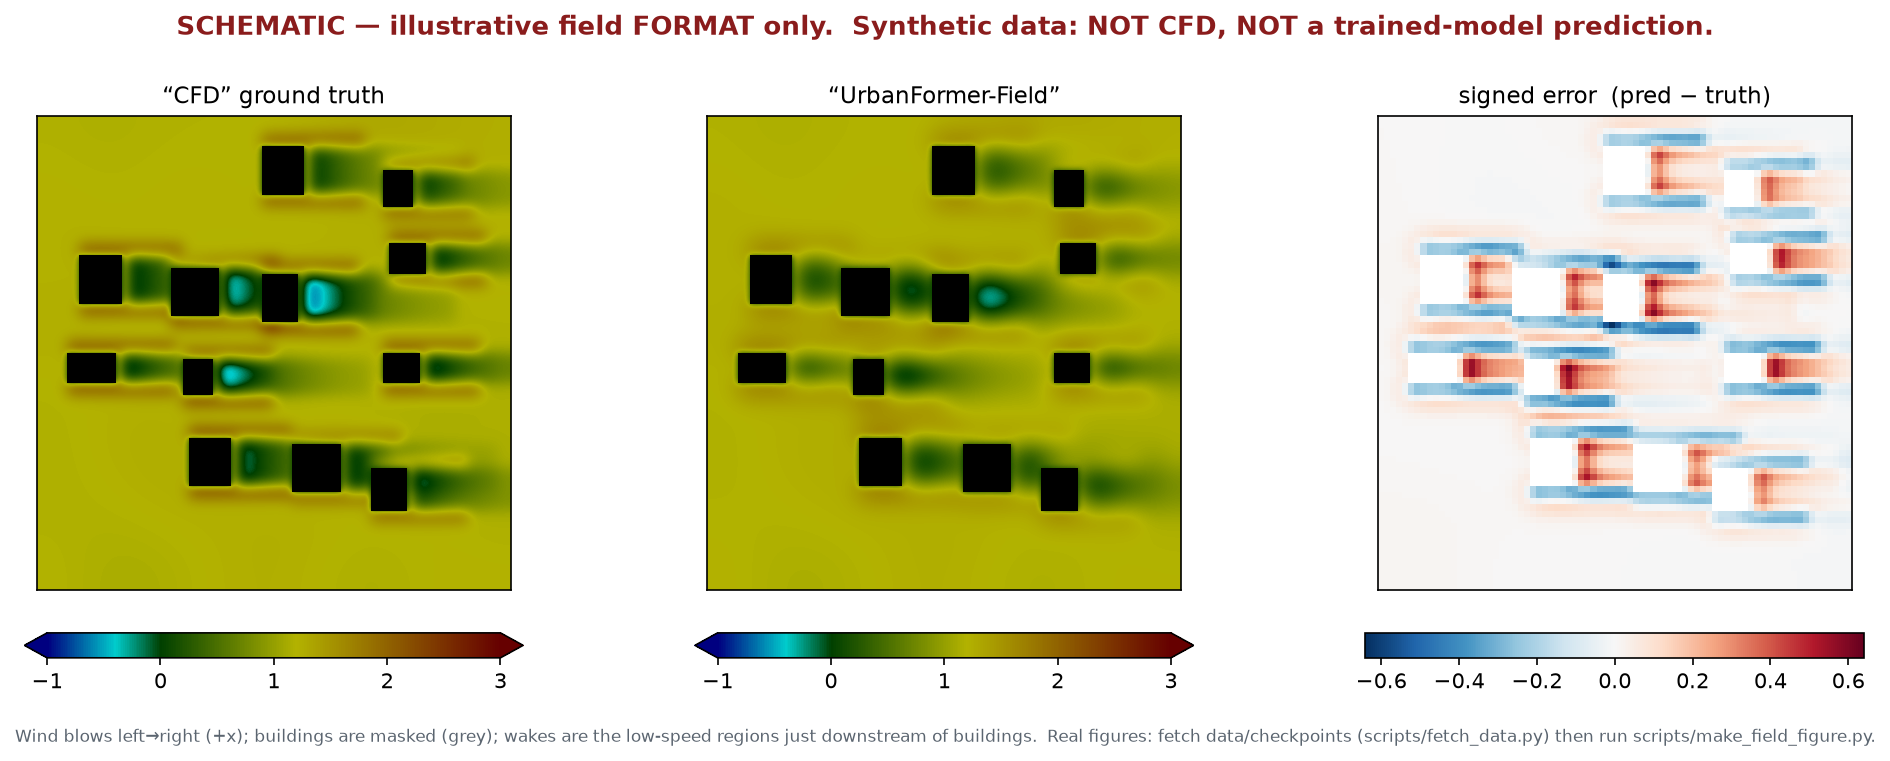
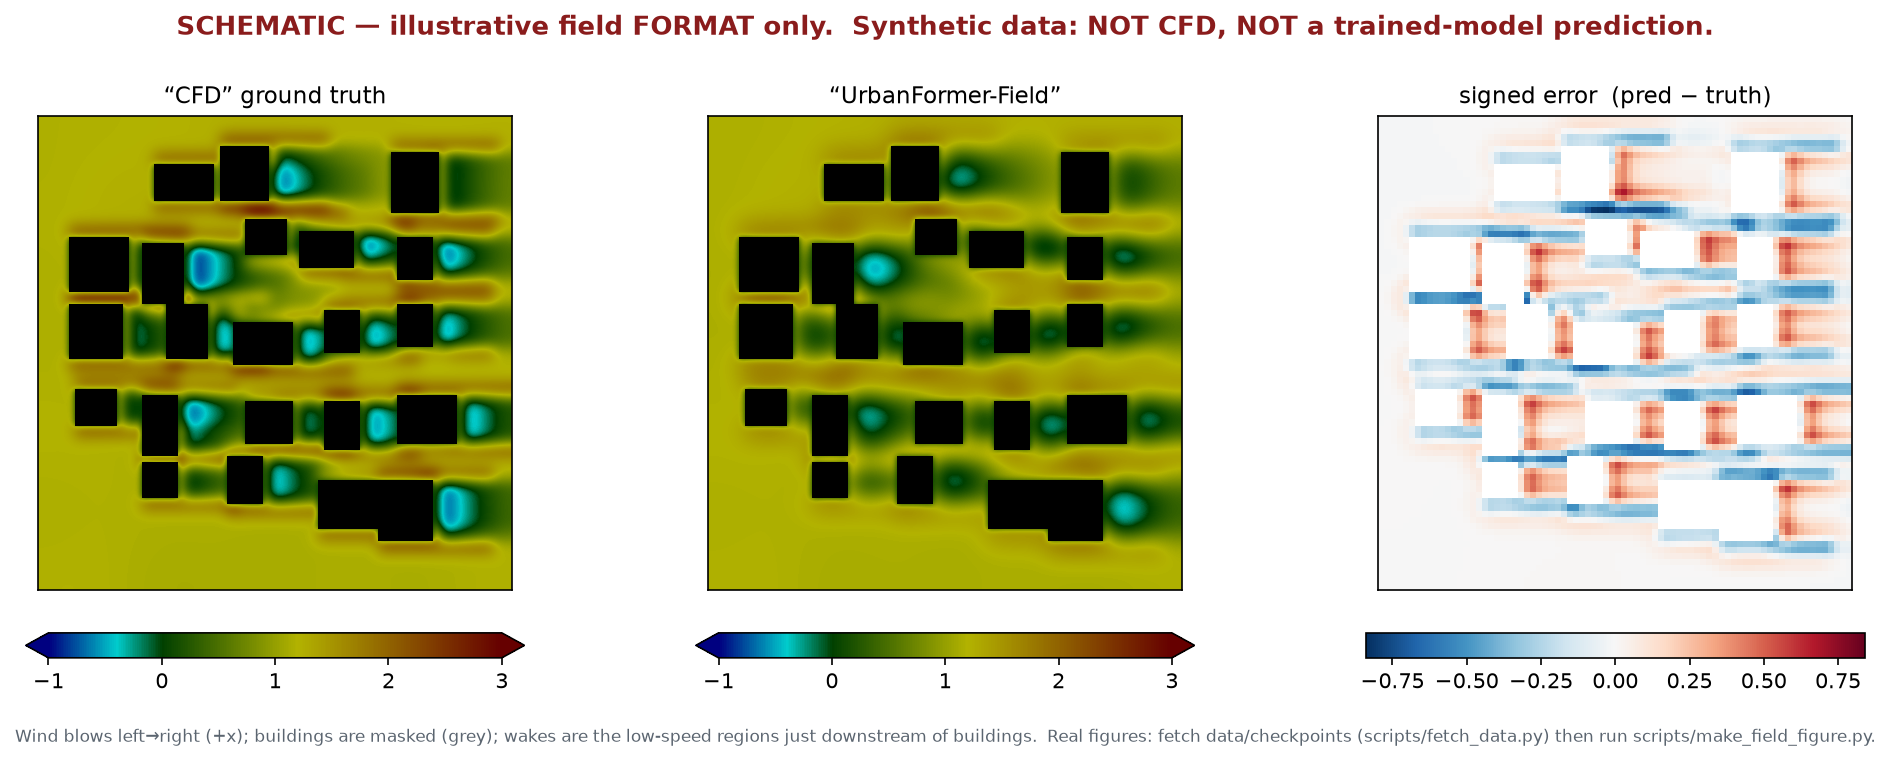
Docs: add 3-D input canopy figure; reconcile the dropped bug section
- Add an input-side illustration to complement the output field: a 3-D building
  canopy (bar3d) showing the model's geometric input (the building token set).
  make_field_figure.py --schematic now derives ONE synthetic layout and renders
  both the input canopy (docs/figures/input_canopy.png) and the output field from
  that same layout, so the README shows a consistent geometry -> field pair.
  Densified the layout to ~22 buildings to match the dataset (16-44, mean 28).
- Embed the canopy in the README 'problem in ML terms' section and cross-link it
  to the output figure.
- Reconcile the user-removed 'A bug that changed the story' section: reword the
  Quickstart line and repoint the glossary's axial-attention entry (the anchor to
  that section no longer exists) to tests/test_axial.py.

ruff clean, 80 tests pass; figures are data-free and labeled illustrations.

diff --git a/scripts/make_field_figure.py b/scripts/make_field_figure.py
@@ -217,62 +217,100 @@ def _render_real(args) -> int:
 
 # ---------------------------------------------------------------------------
 # SCHEMATIC mode: synthetic, clearly-labeled illustration (no data)
+# One building layout drives BOTH the input canopy (3-D boxes) and the output
+# field, so the two docs images are a consistent input -> output pair.
 # ---------------------------------------------------------------------------
-def _synthetic_case(seed: int = 3, Ny: int = 78, Nx: int = 78):
-    """A plausible-looking but entirely synthetic field. Wind blows along +x.
+def _synthetic_layout(seed: int = 3, Ny: int = 78, Nx: int = 78):
+    """A synthetic building set. Returns (buildings, solid, Ny, Nx).
 
-    NOT physics: buildings shelter a low-speed wake downstream (+x) and flow
-    accelerates through open lanes, purely to illustrate the output *format*.
+    Each building is a dict of grid-cell geometry ``{y0, x0, ny, nx, h}`` with a
+    normalized height ``h in [0, 1]`` — i.e. the same information a 5-D input
+    token carries. Buildings are scattered on a jittered grid (16-44 per case in
+    the real data; a similar count here).
+    """
+    rng = np.random.default_rng(seed)
+    solid = np.zeros((Ny, Nx), bool)
+    buildings = []
+    for cy in range(6, Ny - 8, 13):
+        for cx in range(6, Nx - 8, 13):
+            if rng.random() < 0.16:
+                continue
+            ny = int(rng.integers(6, 11))                   # spanwise (y) extent
+            nx = int(rng.integers(6, 11))                   # streamwise (x) extent
+            y0 = max(0, cy + int(rng.integers(-2, 3)))
+            x0 = max(0, cx + int(rng.integers(-2, 3)))
+            h = float(rng.uniform(0.12, 0.34))              # normalized roof height
+            solid[y0:y0 + ny, x0:x0 + nx] = True
+            buildings.append(dict(y0=y0, x0=x0, ny=ny, nx=nx, h=h))
+    return buildings, solid, Ny, Nx
+
+
+def _field_from_layout(buildings, solid, Ny, Nx, seed: int = 3):
+    """A plausible-looking but entirely synthetic field for that layout.
+
+    NOT physics: taller buildings shelter a stronger low-speed wake downstream
+    (+x) and flow accelerates through open lanes, purely to illustrate the output
+    *format*. Also returns a smoothed, slightly-biased "prediction" that mimics a
+    good-but-imperfect surrogate (sharp wakes soften, small errors at edges).
     """
     from scipy.ndimage import gaussian_filter
 
-    rng = np.random.default_rng(seed)
-    solid = np.zeros((Ny, Nx), bool)
+    rng = np.random.default_rng(seed + 100)
     u = np.full((Ny, Nx), 1.2, float)                       # free-stream base speed
+    for b in buildings:
+        y0, x0, ny, nx = b["y0"], b["x0"], b["ny"], b["nx"]
+        strength = 1.1 + 2.0 * b["h"]                       # taller -> stronger wake
+        for d in range(1, 26):                              # wake downstream (+x)
+            xx = x0 + nx + d
+            if xx >= Nx:
+                break
+            u[y0:y0 + ny, xx] -= strength * np.exp(-d / 11.0)
+        for dy in (-2, -1):                                 # lateral jets (open lanes)
+            if 0 <= y0 + dy:
+                u[y0 + dy, x0:min(Nx, x0 + nx + 10)] += 0.55 * strength
+        for dy in (0, 1):
+            if y0 + ny + dy < Ny:
+                u[y0 + ny + dy, x0:min(Nx, x0 + nx + 10)] += 0.55 * strength
 
-    # scatter rectangular buildings on a jittered grid
-    for cy in range(8, Ny - 8, 16):
-        for cx in range(8, Nx - 8, 16):
-            if rng.random() < 0.28:
-                continue
-            h = int(rng.integers(5, 9))
-            w = int(rng.integers(5, 9))
-            y0 = cy + int(rng.integers(-3, 3))
-            x0 = cx + int(rng.integers(-3, 3))
-            y0, x0 = max(0, y0), max(0, x0)
-            solid[y0:y0 + h, x0:x0 + w] = True
-            strength = rng.uniform(1.1, 1.8)
-            # low-speed wake downstream (+x, to the right); dips below 0 close in
-            # (recirculation), recovering with distance
-            for d in range(1, 26):
-                xx = x0 + w + d
-                if xx >= Nx:
-                    break
-                u[y0:y0 + h, xx] -= strength * np.exp(-d / 11.0)
-            # lateral jet alongside the building (flow squeezes through open lanes)
-            for dy in (-2, -1):
-                if 0 <= y0 + dy:
-                    u[y0 + dy, x0:min(Nx, x0 + w + 10)] += 0.55 * strength
-            for dy in (0, 1):
-                if y0 + h + dy < Ny:
-                    u[y0 + h + dy, x0:min(Nx, x0 + w + 10)] += 0.55 * strength
-
-    u += 0.55 * gaussian_filter(rng.standard_normal((Ny, Nx)), sigma=7)  # large-scale texture
+    u += 0.55 * gaussian_filter(rng.standard_normal((Ny, Nx)), sigma=7)
     u = gaussian_filter(u, sigma=1.0)
     fluid = (~solid).astype(float)
-
-    # a "prediction": slightly smoothed + a small smooth bias, i.e. a good-but-
-    # imperfect surrogate (sharper wakes soften, small errors at edges)
     pred = gaussian_filter(u, sigma=1.6) + 0.10 * gaussian_filter(
         rng.standard_normal((Ny, Nx)), sigma=8)
     return pred * fluid, u * fluid, fluid
 
 
-def _render_schematic() -> int:
-    pred, target, fluid = _synthetic_case()
+def _render_input_canopy(buildings, Ny, Nx, outfile) -> None:
+    """3-D box plot of the building set — the model's geometric input."""
+    fig = plt.figure(figsize=(7.2, 6.2))
+    ax = fig.add_subplot(111, projection="3d")   # 3d projection auto-registers (mpl>=3.2)
+    xs = [b["x0"] / Nx for b in buildings]
+    ys = [b["y0"] / Ny for b in buildings]
+    dxs = [b["nx"] / Nx for b in buildings]
+    dys = [b["ny"] / Ny for b in buildings]
+    dzs = [b["h"] for b in buildings]
+    zeros = [0.0] * len(buildings)
+    ax.bar3d(xs, ys, zeros, dxs, dys, dzs,
+             color="#3b74b8", edgecolor="#123b66", linewidth=0.6, shade=True)
+    ax.set_xlim(0, 1)
+    ax.set_ylim(0, 1)
+    ax.set_zlim(0, 1)
+    ax.set_zticks([0, 1 / 3, 2 / 3, 1])
+    ax.set_xlabel("x  (streamwise, wind →)", labelpad=8)
+    ax.set_ylabel("y  (spanwise)", labelpad=8)
+    ax.set_zlabel("z  (height / h_ref)", labelpad=4)
+    ax.set_title(f"Input: building set  B  ({len(buildings)} tokens "
+                 "[x_c, y_c, w, l, h])\nexample synthetic layout", fontsize=11)
+    ax.view_init(elev=26, azim=-58)
+    fig.tight_layout()
+    OUT.mkdir(parents=True, exist_ok=True)
+    fig.savefig(outfile, bbox_inches="tight", facecolor="white", dpi=150)
+    print("wrote", outfile)
+
+
+def _render_field_schematic(pred, target, fluid, outfile) -> None:
     solid = fluid == 0
     fig, axes = plt.subplots(1, 3, figsize=(13.5, 5.0))
-
     _panel(axes[0], target, solid, "“CFD” ground truth")
     _panel(axes[1], pred, solid, "“UrbanFormer-Field”")
     _error_panel(axes[2], pred, target, fluid)
@@ -288,9 +326,16 @@ def _render_schematic() -> int:
              ha="center", va="bottom", fontsize=8.4, color="#5b6570")
     fig.tight_layout(rect=(0, 0.05, 1, 0.94))
     OUT.mkdir(parents=True, exist_ok=True)
-    outfile = OUT / "field_schematic.png"
     fig.savefig(outfile, bbox_inches="tight", facecolor="white", dpi=150)
     print("wrote", outfile)
+
+
+def _render_schematic() -> int:
+    """Render the paired input-canopy and output-field illustrations."""
+    buildings, solid, Ny, Nx = _synthetic_layout()
+    _render_input_canopy(buildings, Ny, Nx, OUT / "input_canopy.png")
+    pred, target, fluid = _field_from_layout(buildings, solid, Ny, Nx)
+    _render_field_schematic(pred, target, fluid, OUT / "field_schematic.png")
     return 0
 
 

diff --git a/README.md b/README.md
@@ -49,6 +49,15 @@ This is **not** a fixed grid-to-grid image translation. It is closer to a
 render the field. One trained model covers the whole family of layouts — **no
 per-layout retraining.**
 
+The **input** `B` is a 3-D urban canopy — a set of building boxes on the ground
+plane, each carrying a footprint and a height:
+
+![Input: a 3-D building canopy](docs/figures/input_canopy.png)
+
+*Example synthetic layout (22 buildings). The predicted field for this same
+layout is the [output figure](#what-the-output-looks-like) below. Regenerate both
+with `python scripts/make_field_figure.py --schematic`.*
+
 **ML anchors for the architecture** (details in
 [`docs/glossary.md`](docs/glossary.md#9-ml-building-blocks-used-here)):
 
@@ -106,10 +115,11 @@ over the grid). Regenerate this figure with `python scripts/make_arch_figure.py`
 
 Each prediction is a 2-D scalar field on the mid-canopy plane: normalized wind
 speed per cell, with building cells masked out. The figure below shows the
-**format** — ground truth, model prediction, and their signed error — so an ML
-reader knows what a "field" means here: buildings are holes in the domain, slow
-**wakes** trail downstream of each building, and a surrogate's error concentrates
-at the sharp wake edges it tends to smooth.
+**format** — ground truth, model prediction, and their signed error — for the
+**same building layout as the [input canopy](#the-problem-in-ml-terms) above**, so
+an ML reader can see the whole `geometry → field` map: buildings are holes in the
+domain, slow **wakes** trail downstream of each building, and a surrogate's error
+concentrates at the sharp wake edges it tends to smooth.
 
 ![Schematic of the prediction format](docs/figures/field_schematic.png)
 
@@ -215,8 +225,8 @@ jupyter lab notebooks/00_build_dataset.ipynb
 
 The full suite is **80 tests** and runs on CPU with no dataset present: every
 module (losses, metrics, data contracts, all four models, the CLI/train step, the
-provenance guard, and the `uff-axial-fix` regression) is covered on synthetic
-inputs. `tests/test_axial.py` is where the bug story is pinned.
+provenance guard, and the axial-attention regression) is covered on synthetic
+inputs.
 
 ---
 

diff --git a/docs/glossary.md b/docs/glossary.md
@@ -169,7 +169,7 @@ Fluids readers can skim this; ML readers can skim §1–§8 and read this.
 | **Coordinate decoding / neural field** | `models/field.py: UFFieldDecoder` | The decoder is a function of the query `(x, y)`, so the field can be sampled anywhere at any resolution (NeRF/SIREN-style). |
 | **Fourier features** | `FourierFeatures` (field & pooled) | Lift `(x, y)` through random sinusoids so an MLP can fit high-frequency structure, fighting spectral bias (Tancik et al. 2020). |
 | **FiLM conditioning** | `models/pooled.py: FiLMBlock` | Feature-wise affine modulation of the decoder by a global geometry vector (Perez et al. 2018). WP2 only. |
-| **Axial self-attention** | `models/axial.py: AxialSelfAttention` | Attention along rows then columns of the query grid — `O(Nx + Ny)` instead of `O(Nx·Ny)` — to make neighbouring predictions spatially coherent. The **load-bearing** lever of UF-F (and the subject of the [bug story](../README.md#a-bug-that-changed-the-story)). |
+| **Axial self-attention** | `models/axial.py: AxialSelfAttention` | Attention along rows then columns of the query grid — `O(Nx + Ny)` instead of `O(Nx·Ny)` — to make neighbouring predictions spatially coherent. The **load-bearing** lever of UF-F; pinned by the regression test `tests/test_axial.py`. |
 | **Masked / structural loss** | `losses.masked_field_loss` | Masked MSE (tail-weighted) + a finite-difference **gradient** term + a radial **spectral (PSD)** term, to punish blur and missing high-frequency energy. |
 
 ---
